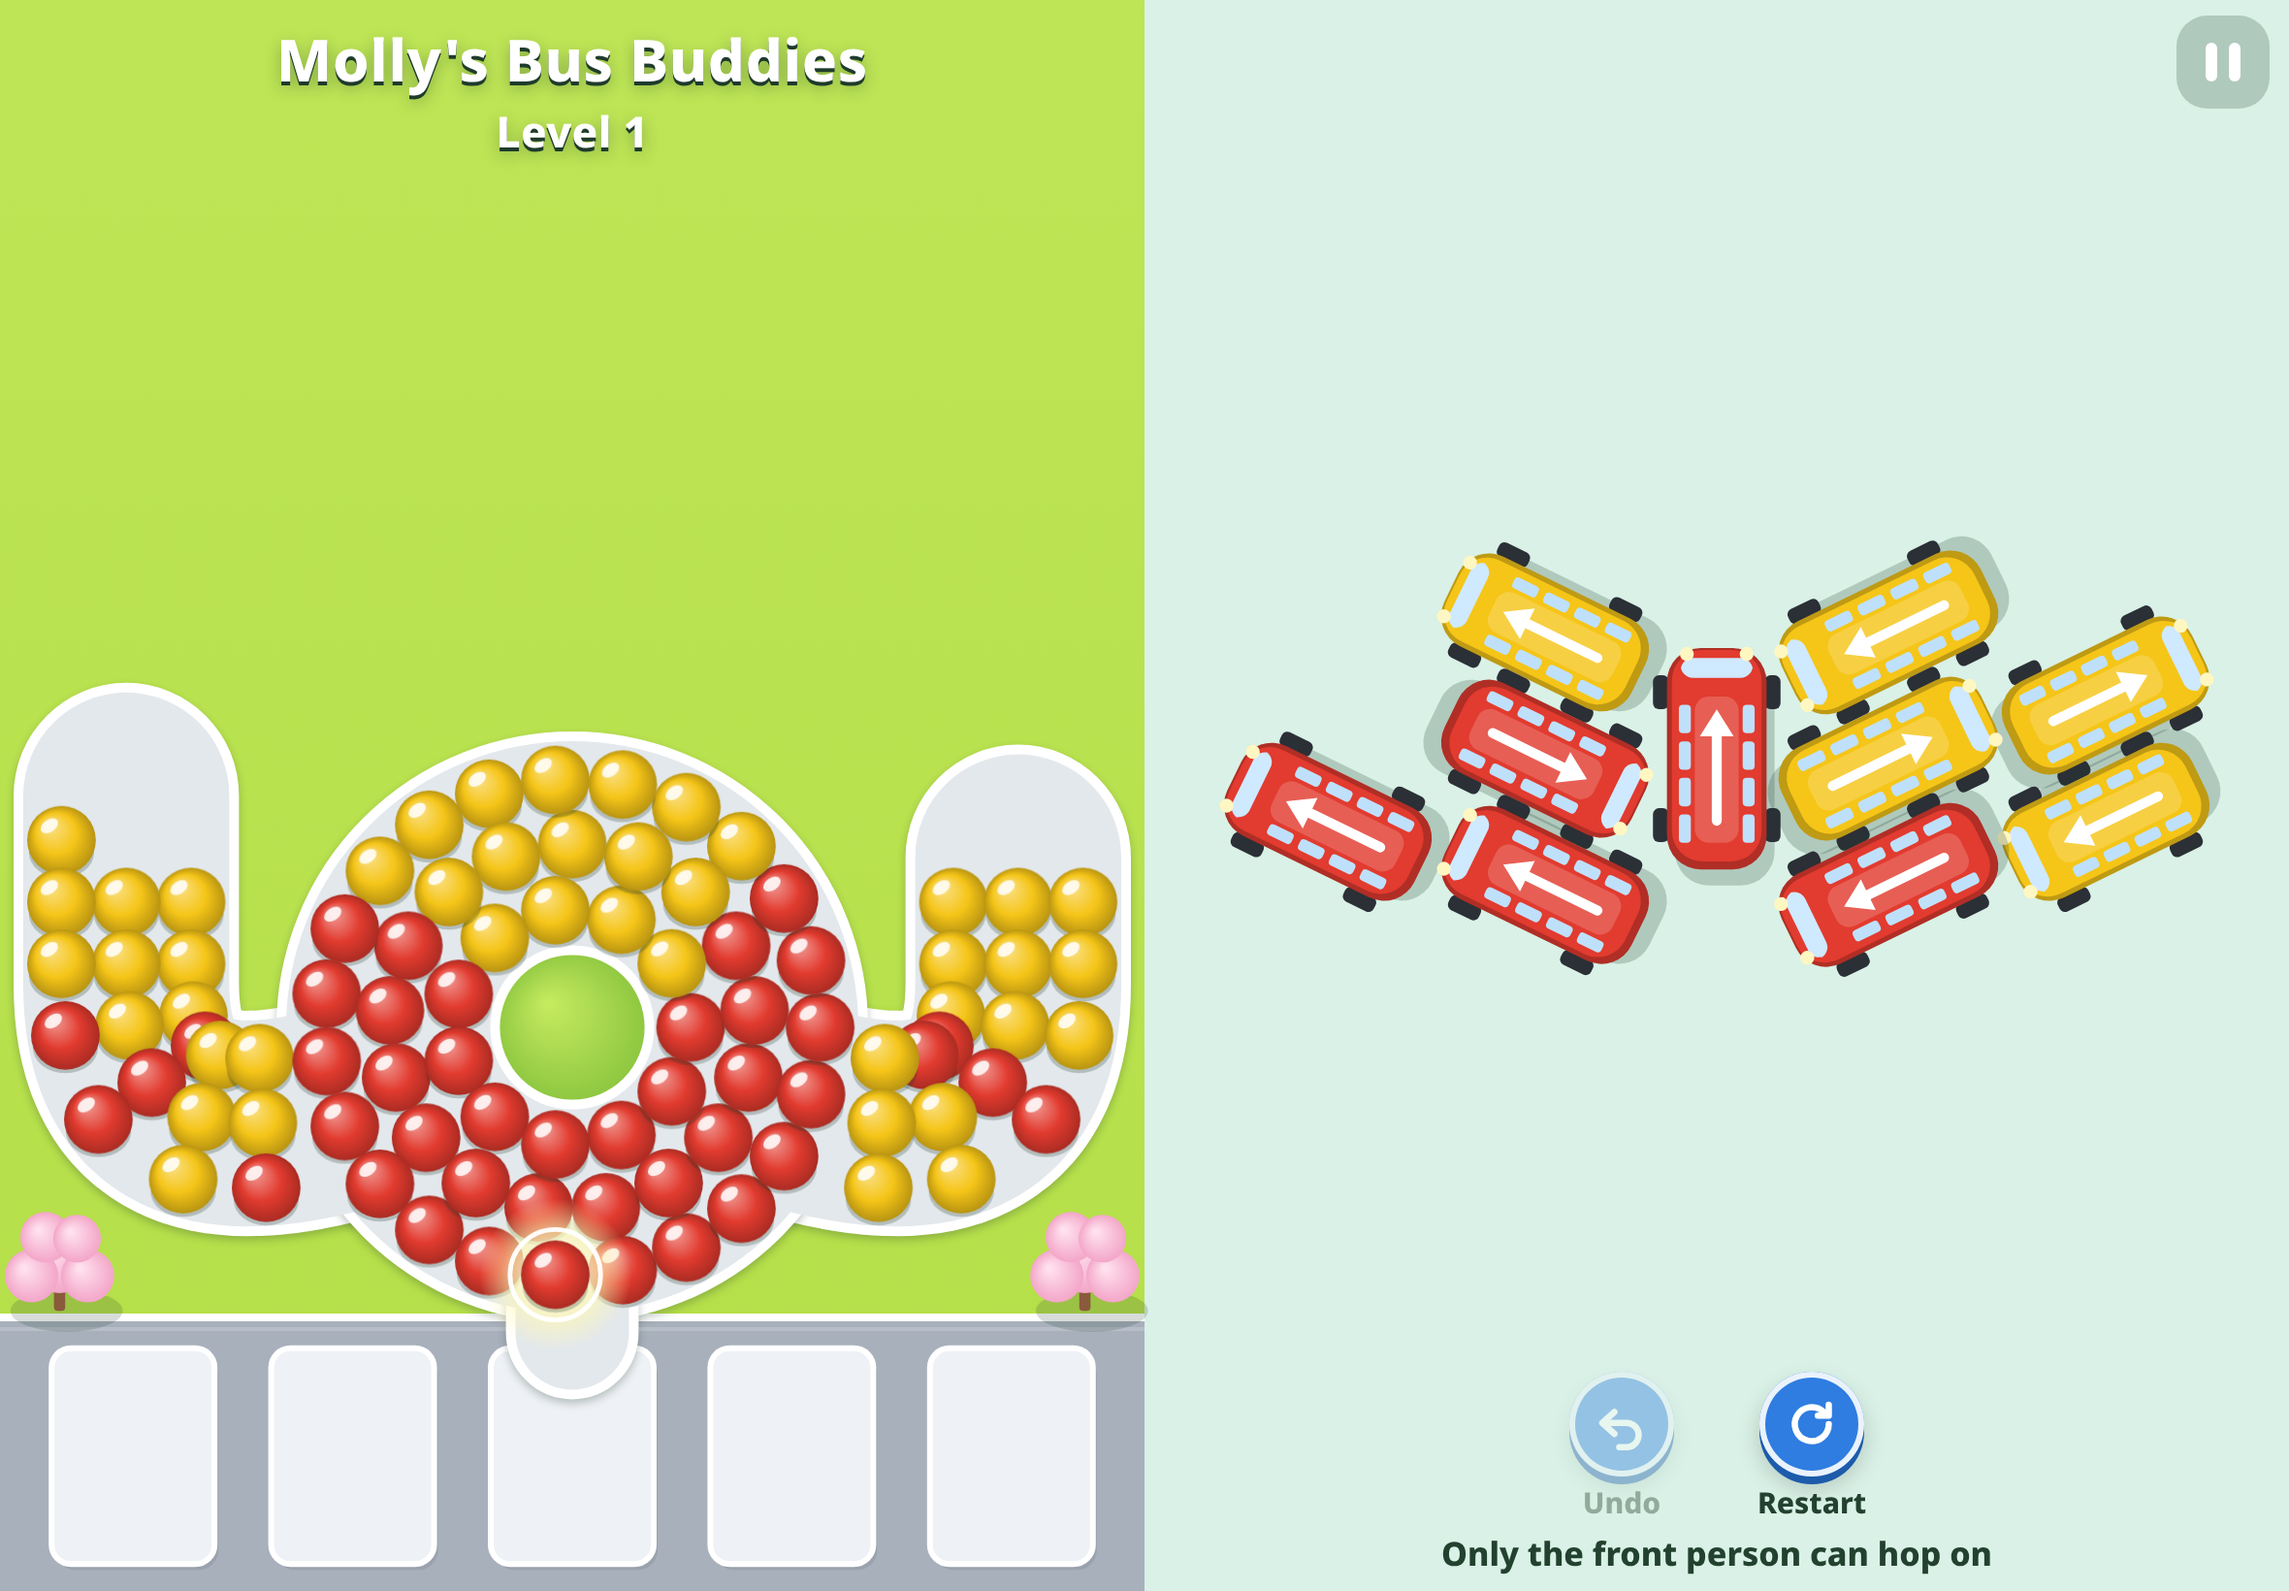
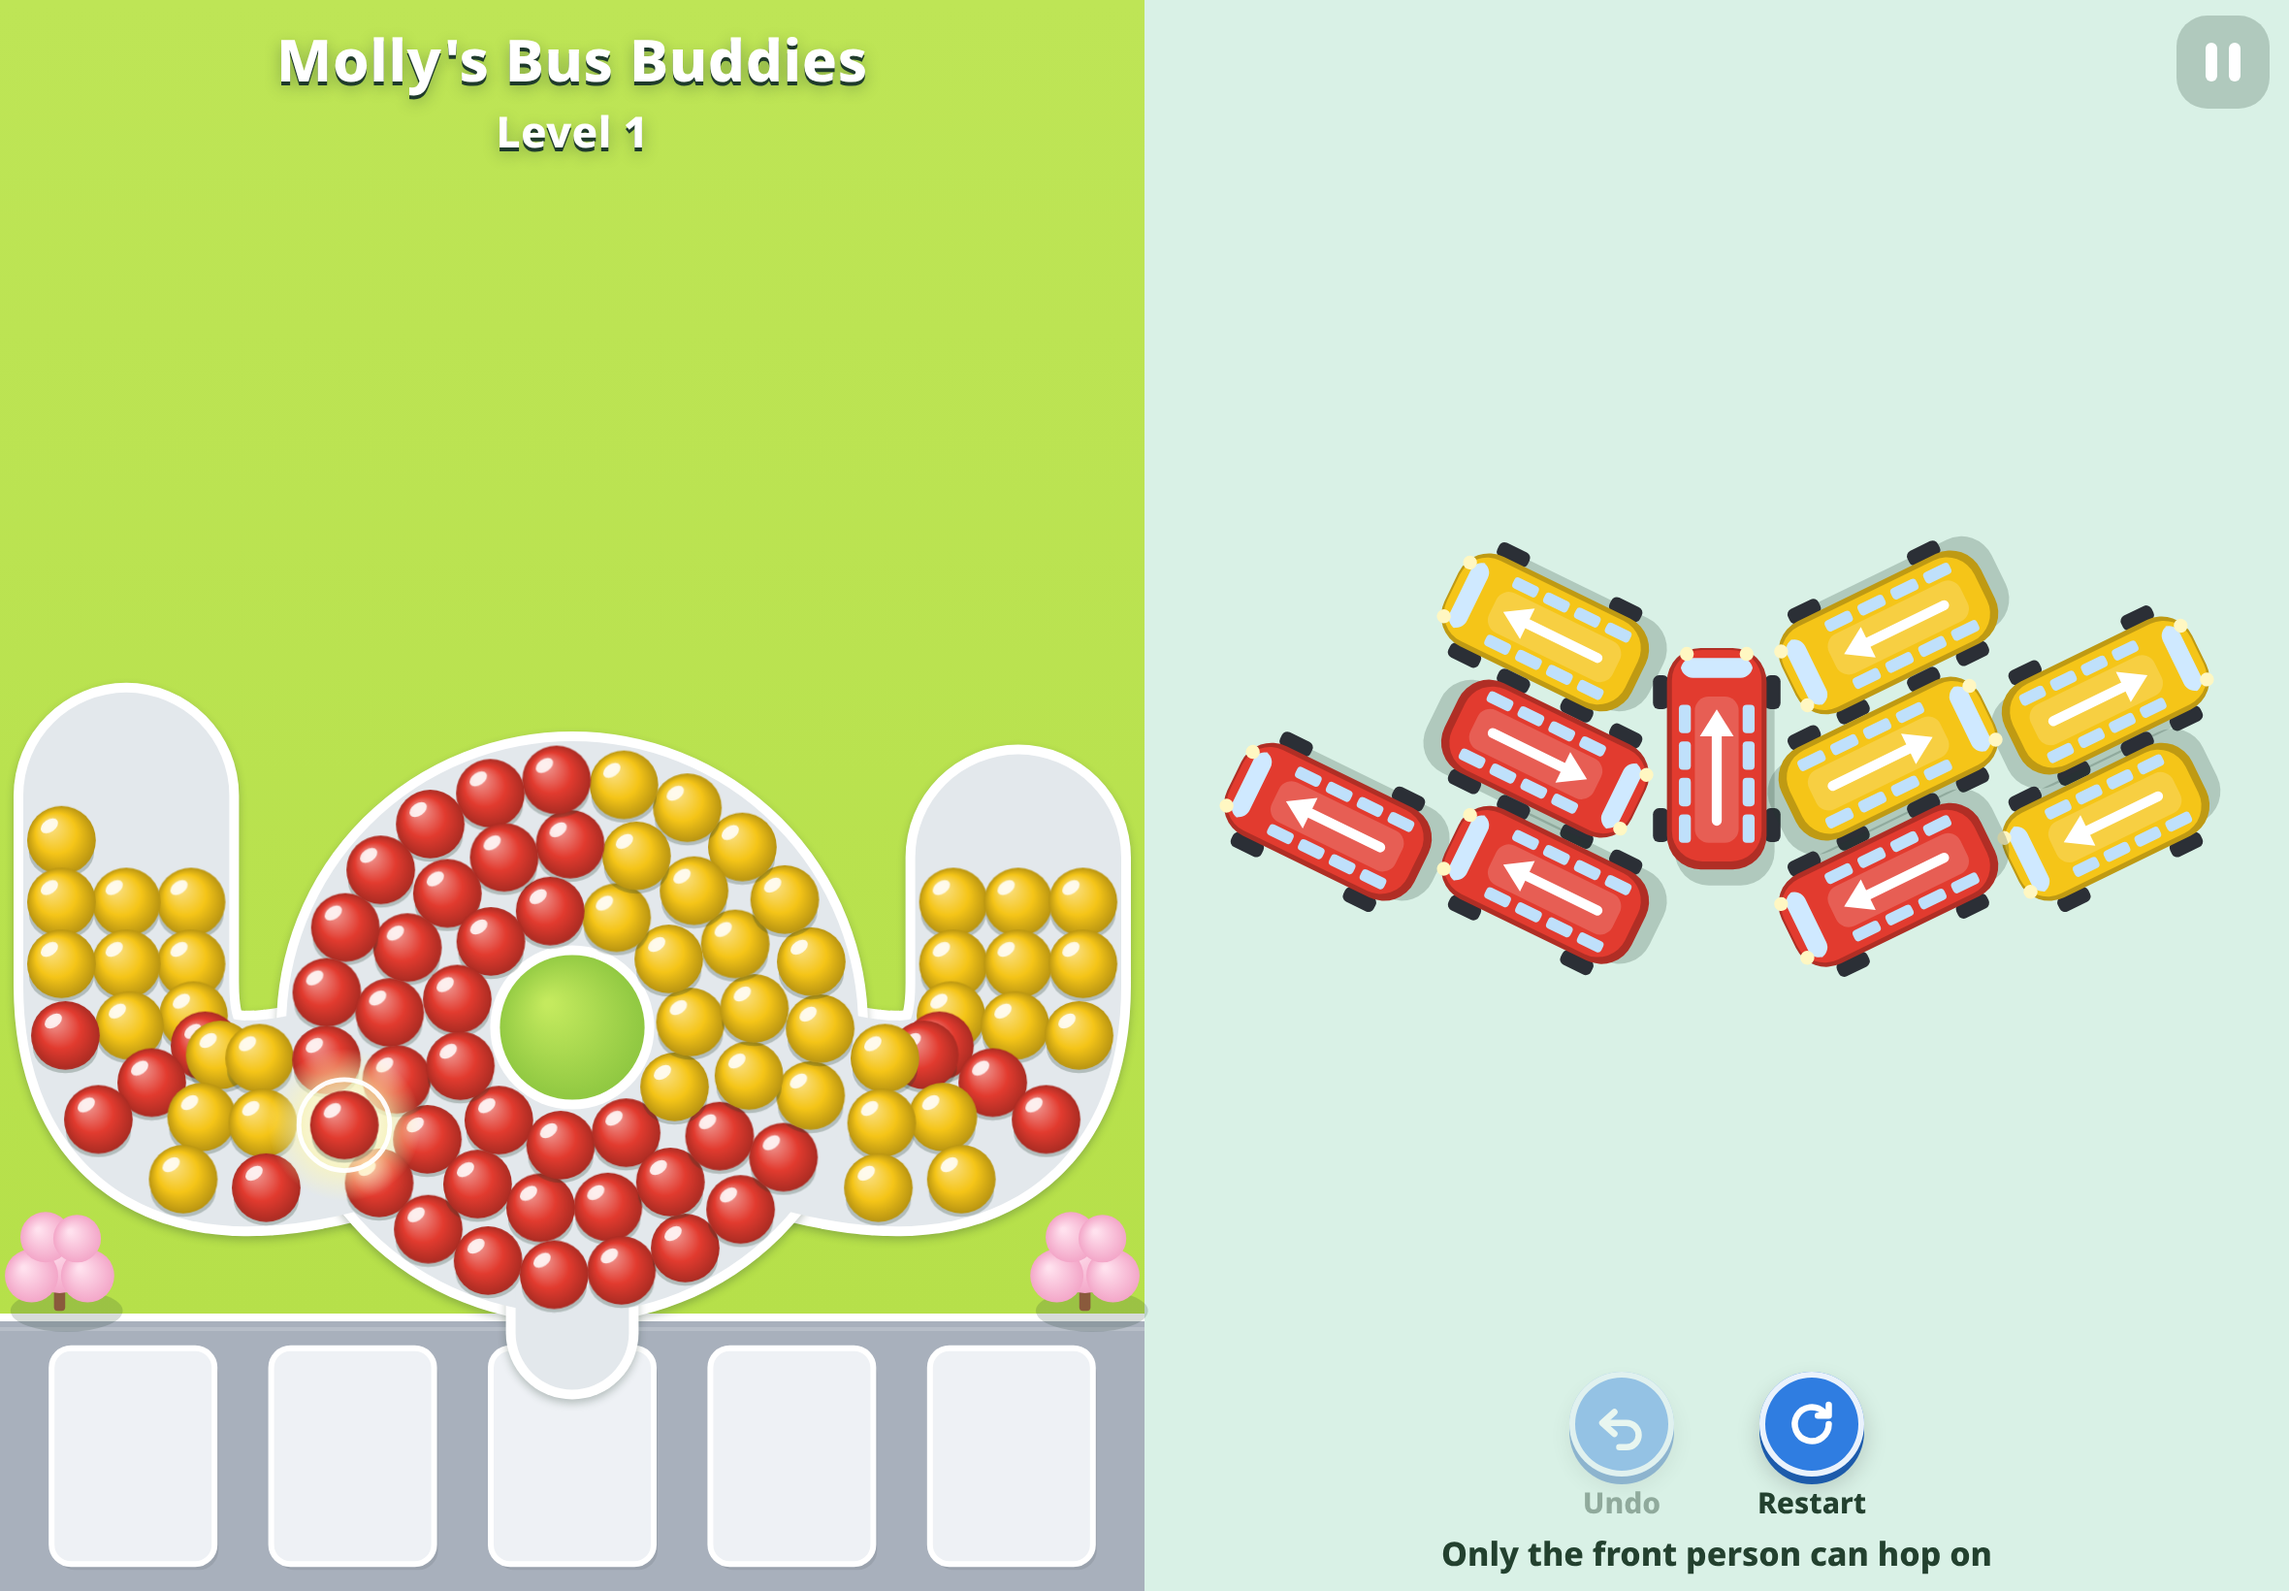
The packed ring of passengers turns like a conveyor; SW cache v5

Changed region(s): [[0.1237, 0.4665, 0.3712, 0.8396]]

diff --git a/js/main.js b/js/main.js
@@ -60,7 +60,7 @@ function lineTargets() {
   const off = boardedSoFar();
   const n = [0, 0];
   return all.map((p, i) => {
-    if (i < L.ringCap) { const t = ringSlot(L, i); return { mode: "l", a: t.a, r: t.r }; }
+    if (i < L.ringCap) { const t = ringSlot(L, i, D.phase); return { mode: "l", a: t.a, r: t.r }; }
     const arm = Math.max(0, L.armOf[off + i] ?? 0);
     const q = queuePoint(L, arm, n[arm]++);
     return { mode: "q", x: q.x, y: q.y };
@@ -146,6 +146,10 @@ function frame(now) {
 
 function step(now, dt) {
   const speed = RM() ? 0.15 : 1;
+  // Visual-only conveyor: the packed ring goes round clockwise, about ten
+  // seconds a lap. Boarding still takes the front person to the door, then
+  // down to the bay. prefers-reduced-motion stops the spin.
+  if (!RM()) D.phase += (360 / 10) * dt;
   // play out settle events
   while (D.events.length && now >= D.nextAt) {
     const e = D.events[0];
@@ -503,6 +507,15 @@ window.__busBuddies = {
   tap: (id) => { const p = busPos(L, session.state.parked.find((b) => b.id === id)); onTap(p.x, p.y); },
   get state() { return session && clone(session.state); },
   get busy() { return busy(); },
+  get phase() { return D.phase; },
+  // Packed ring people, in line order, for the rotation check.
+  ringPeople() {
+    if (!session || !L) return [];
+    return line().slice(0, L.ringCap).map((p) => {
+      const per = D.persons.get(p.pid);
+      return per ? { id: p.pid, colour: p.colour, x: per.x, y: per.y, a: per.a } : null;
+    }).filter(Boolean);
+  },
 };
 
 if ("serviceWorker" in navigator && (location.protocol === "https:" || ["localhost", "127.0.0.1"].includes(location.hostname))) {

diff --git a/js/render.js b/js/render.js
@@ -178,10 +178,12 @@ export function loopXY(L, angleDeg, r = L.ringR[1]) {
   return { x: cx + r * Math.cos(rad(angleDeg)), y: cy + r * Math.sin(rad(angleDeg)) };
 }
 
-/** Ring place i (0 = the front, at the door) as an angle (degrees) and radius. */
-export function ringSlot(L, i) {
+/** Ring place i (0 = the front, at the door) as an angle (degrees) and radius.
+ *  phaseDeg is a visual-only spin: the packed crowd goes round the circle, but
+ *  the order of people and the rules engine are unchanged. */
+export function ringSlot(L, i, phaseDeg = 0) {
   const s = L.ringSlots[Math.min(i, L.ringSlots.length - 1)];
-  return { a: 90 + s.f * 360, r: s.r };
+  return { a: 90 + s.f * 360 + phaseDeg, r: s.r };
 }
 
 /**

diff --git a/sw.js b/sw.js
@@ -1,6 +1,6 @@
 // Molly's Bus Buddies service worker: versioned precache, cache-first, offline navigation.
 // Bump VERSION whenever any cached file changes. Regenerate the list with: node tools/write-sw.mjs
-const VERSION = "bus-buddies-v4";
+const VERSION = "bus-buddies-v5";
 const PRECACHE = [
   "./",
   "index.html",

diff --git a/README.md b/README.md
@@ -9,7 +9,7 @@ Play it at https://stubbsd.github.io/molly-bus-buddies/ (GitHub Pages, served fr
 ## Rules (v2)
 
 1. **Roof arrows.** Each parked bus has a white arrow on its roof and can only drive out that way. If another bus is in front of it, it bumps gently and stays put (no move, nothing to undo).
-2. **Front of the queue only.** People walk round the circle in order. Only the person at the front (with the soft glow) can hop on, onto the earliest-arrived bay bus of their colour. A wrong colour at the front holds everyone up.
+2. **Front of the queue only.** People stream down two feeders and pack the ring three abreast in colour bands. The packed ring turns like a conveyor (it stops if the device asks for less motion). Only the person at the front of the line (with the soft glow) can hop on: they leave at the door at the bottom and walk down to the bay. A wrong colour at the front holds everyone up.
 3. **Seat countdowns.** The yellow badge on a bay bus shows its empty seats. At 0 it drives off and frees the bay.
 4. **Mystery buses.** Dark buses with a `?` show their colour once their road is clear.
 5. **Out of room.** If all five bays are full and another bus is sent out, a gentle "Out of room!" card offers Try again or Undo.
